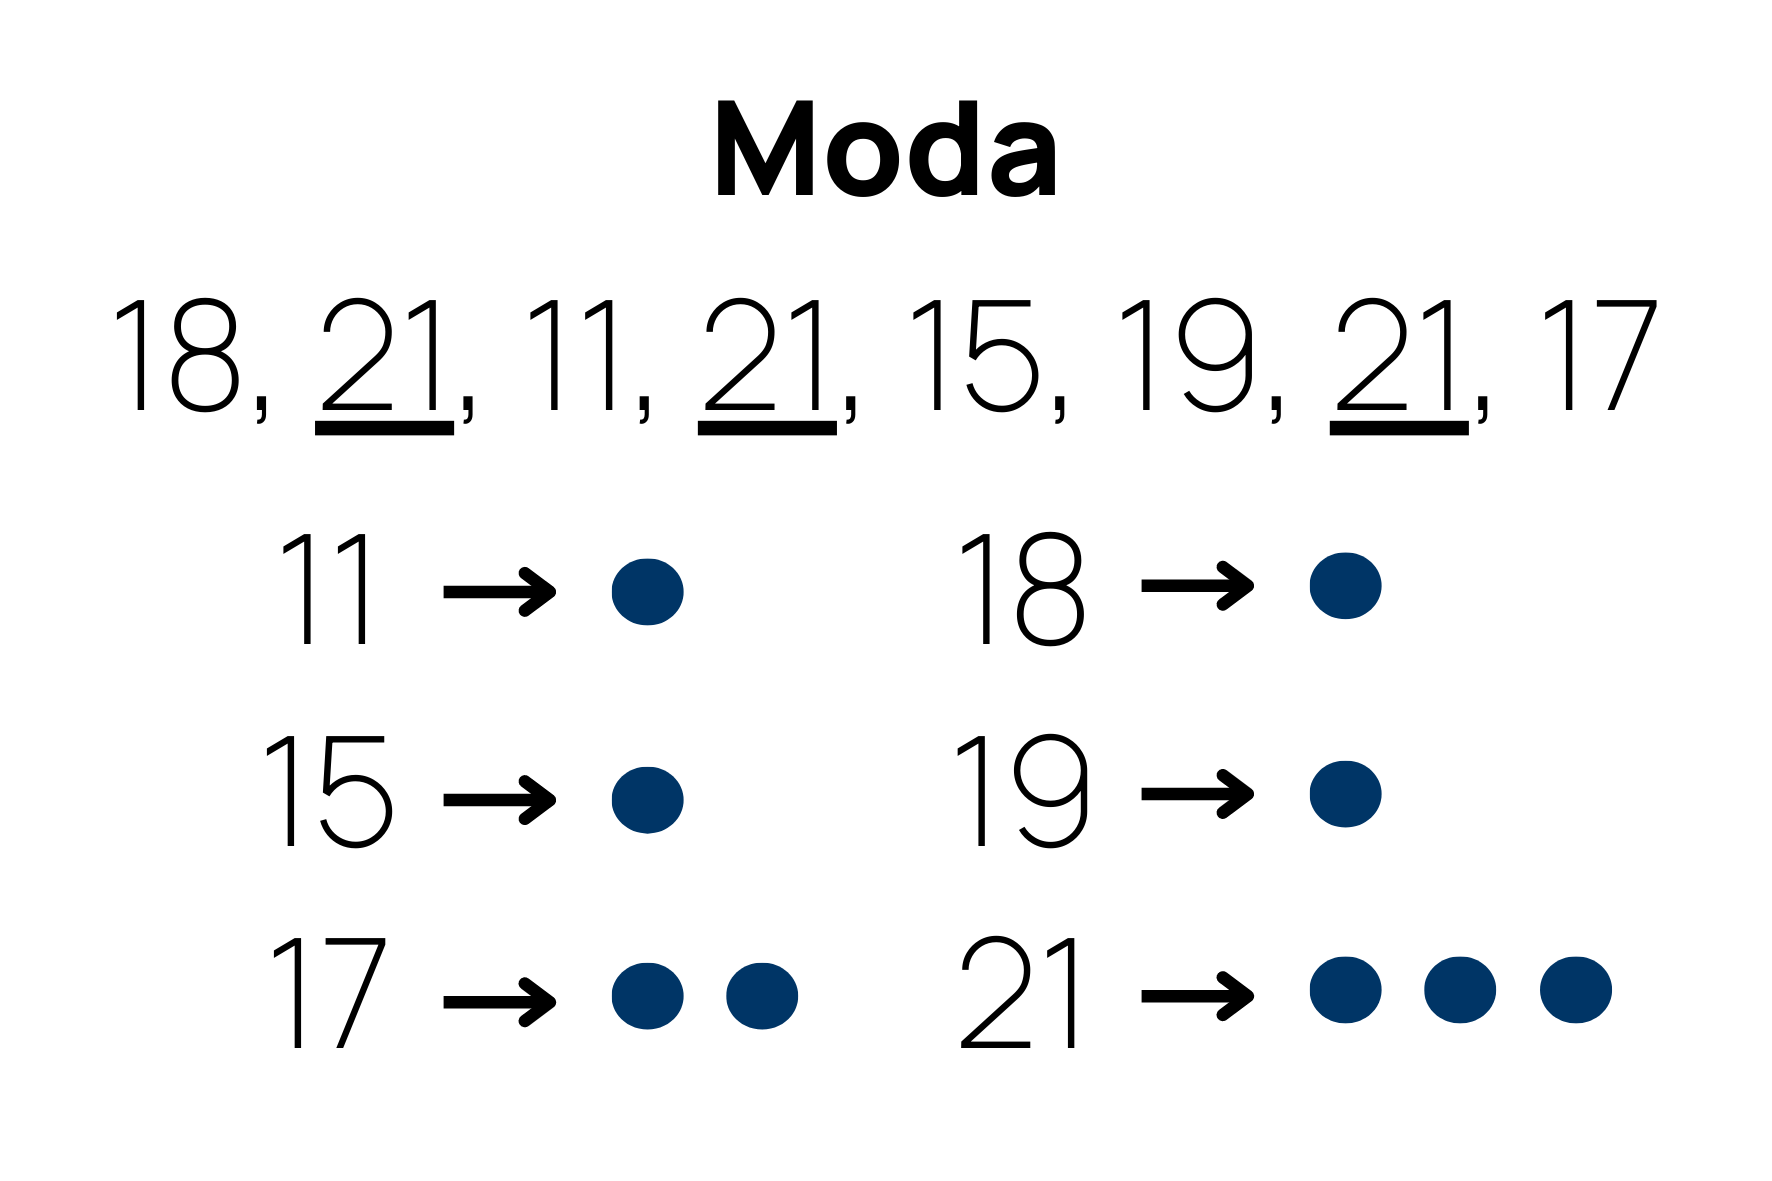
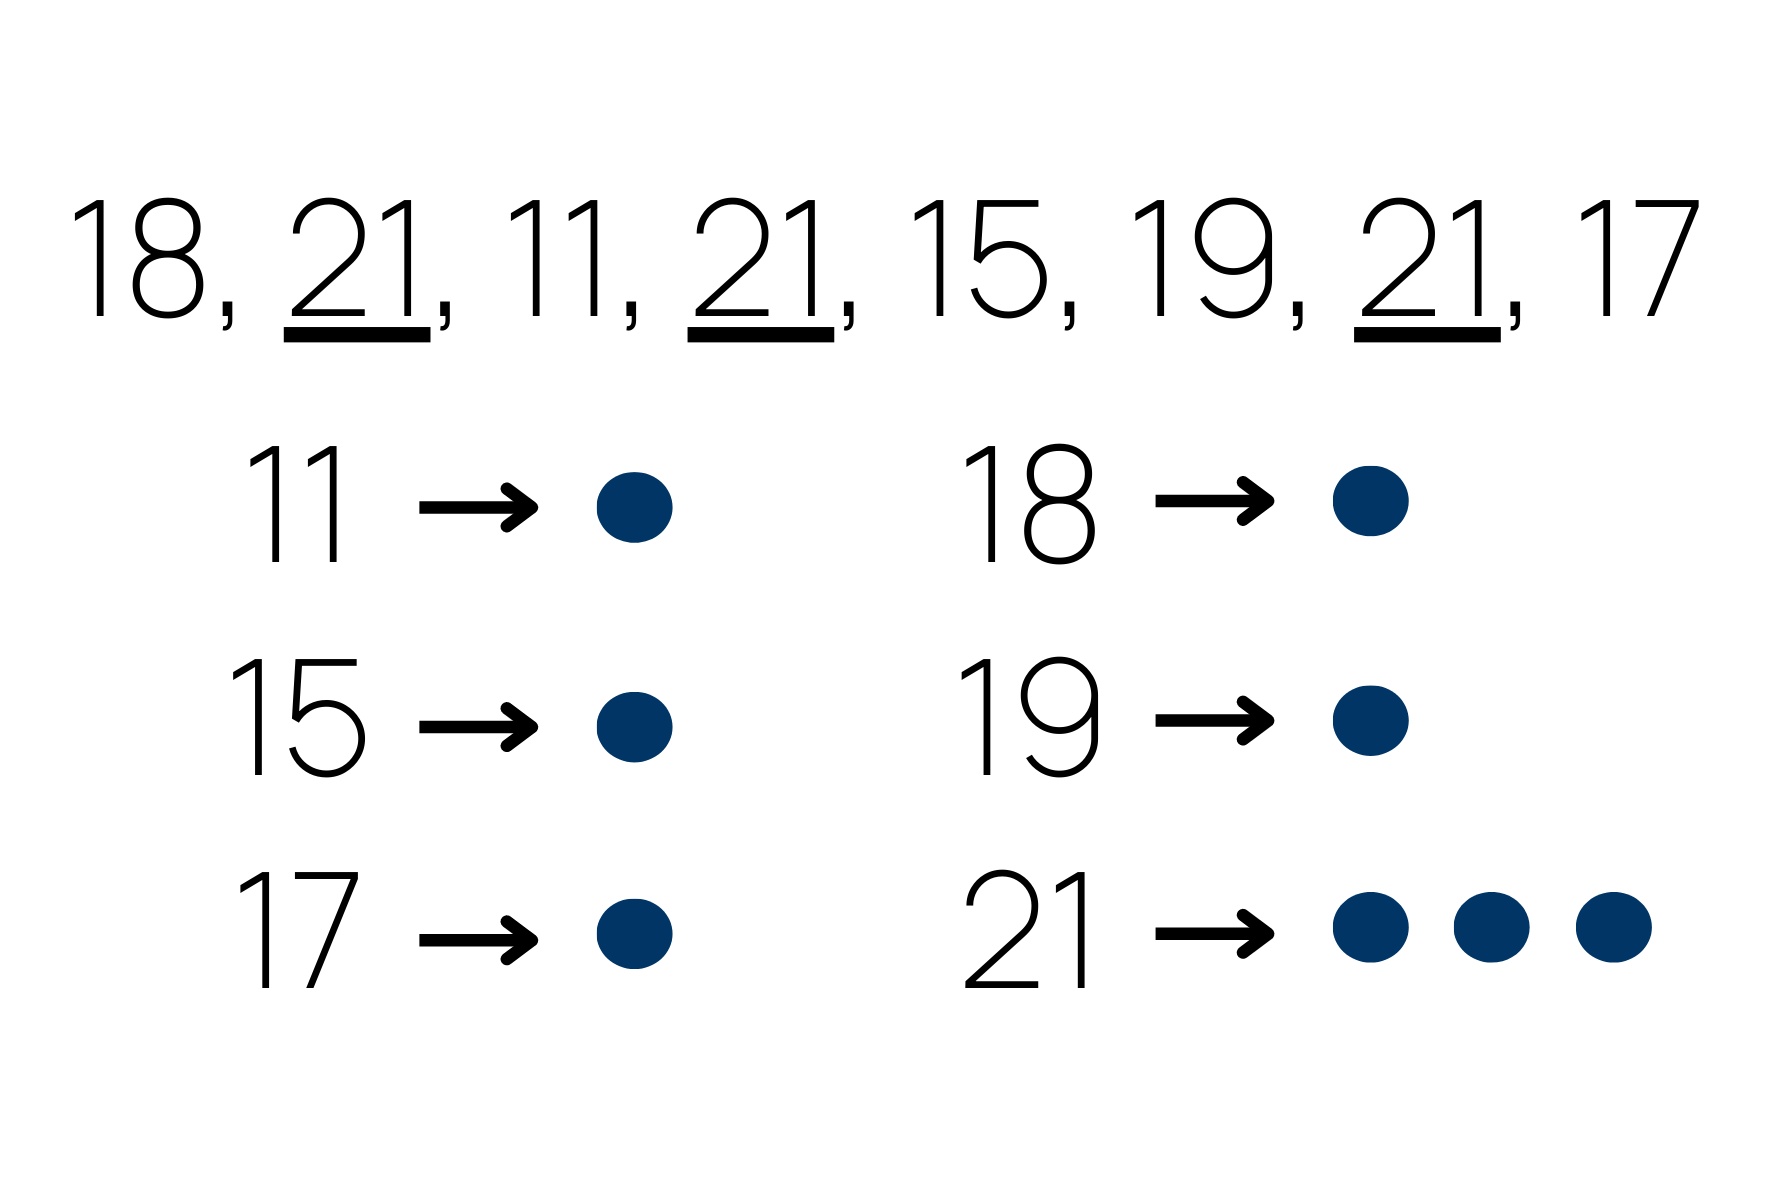
repostando arquivos

diff --git a/media.html b/media.html
@@ -21,22 +21,26 @@
     <main class="conteudo">
         <h1 class="conteudo-titulo">Média</h1>
 
-        <p class="conteudo-paragrafo">A média (Me) é uma medida estatística importante que representa o valor médio de um conjunto de números.
-            
-            Ela é calculada somando todos os valores e dividindo pelo número total de elementos. 
+        <p class="conteudo-paragrafo">A média (Me) é uma medida estatística importante que representa o valor médio de
+            um conjunto de números.
 
-            A média aritmética é frequentemente usada para resumir um conjunto de dados e fornecer uma ideia geral de seu valor central.
-            
-            Para calcular a média aritmética de um conjunto de números, você deve somar todos os valores e dividir pelo número total de elementos. Por exemplo, se tivermos os seguintes números: 5, 7, 10, 12 e 15, a média aritmética seria calculada da seguinte forma:
+            Ela é calculada somando todos os valores e dividindo pelo número total de elementos.
 
-           <br> (5 + 7 + 10 + 12 + 15) / 5 = 49 / 5 = 9,8
-           <br>
+            A média aritmética é frequentemente usada para resumir um conjunto de dados e fornecer uma ideia geral de
+            seu valor central.
+
+            Para calcular a média aritmética de um conjunto de números, você deve somar todos os valores e dividir pelo
+            número total de elementos. Por exemplo, se tivermos os seguintes números: 5, 7, 10, 12 e 15, a média
+            aritmética seria calculada da seguinte forma:
+
+            <br> (5 + 7 + 10 + 12 + 15) / 5 = 49 / 5 = 9,8
+            <br>
             Portanto, a média aritmética dos números fornecidos é 9,8.
         </p>
 
         <h1 class="conteudo-titulo">Fórmula</h1>
 
-        <img class="conteudo-imagem" src="assets/imagens/média.png" width="300px" height="100px"></a>
+        <img class="conteudo-imagem" src="assets/imagens/media2.png" width="350px" height="200px">
 
         <p class="conteudo-paragrafo">Sendo,
 
@@ -52,27 +56,30 @@
 
         <h1 class="conteudo-titulo">Solução</h1>
 
-        <img class="conteudo-imagem" src="assets/imagens/media2.png" width="350px" height="200px"></a>
+        <img class="conteudo-imagem" src="assets/imagens/media2.png"></a>
+        <section class="conteudo-calculadora">
+            <form class="conteudo-calculadora-form" method="post">
+                <label for="array-input" class="conteudo-paragrafo">Insira as notas de cada bimestre:</label>
+                <div><label class="conteudo-paragrafo">Nota 02</label>
+                    <input type="number" id="nota02" value="" max="10">
+                </div>
+                <div>
+                    <label class="conteudo-paragrafo">Nota 02</label>
+                    <input type="number" id="nota02" value="" max="10">
+                </div>
+                <div>
+                    <label class="conteudo-paragrafo">Nota 03</label>
+                    <input type="number" id="nota03" value="" max="10">
+                </div>
+                <div>
+                    <label class="conteudo-paragrafo">Nota 04</label>
+                    <input type="number" id="nota04" value="" max="10">
+                </div>
+                <input class="conteudo-botao" type="button" onclick="javascript:calculo();" name="name" value="Enviar">
+                <input type="text" id="txtResultado" value="">
+            </form>
+        </section>
 
-<section class="conteudo-calculadora">
-        <form class="conteudo-calculadora-form" method="post">
-            <label for="array-input" class="conteudo-paragrafo">Insira as notas de cada Bimestre:</label>
-            <div><label class="conteudo-paragrafo">Nota 01</label>
-            <input type="number" id="nota01" value="" max="10"></div>
-
-           <div><label  class="conteudo-paragrafo">Nota 02</label>
-            <input type="number" id="nota02" value="" max="10"></div>
-
-            <div><label  class="conteudo-paragrafo">Nota 03</label>
-            <input type="number" id="nota03" value="" max="10"></div>
-
-            <div><label  class="conteudo-paagrafo">Nota 04</label>
-            <input type="number" id="nota04" value="" max="10"></div>
-
-            <input type="button" onclick="javascript:calculo();" name="name" value="Enviar">
-            <input type="text" id="txtResultado" value="">
-        </form>
-</section>
         <h1 class="conteudo-titulo">Videoaula</h1>
         <div class="video-container">
             <iframe width="560" height="315" src="https://www.youtube.com/embed/nRxl0WUplf4"
@@ -94,7 +101,7 @@
             }
         </script>
 
-        <h1 class="conteudo-titulo">Agora vamos treinar o que aprendemos</h1><br></br>
+        <h1 class="conteudo-titulo">Agora vamos treinar o que aprendemos</h1>
         <a class="link-resolucoes" href="assets/resolucoes/media/q1_media.html">Resolução de
             questões</a>
     </main>

diff --git a/mediana.html b/mediana.html
@@ -60,7 +60,6 @@
 
         <img class="conteudo-imagem" src="assets/imagens/mediana.png" width="120px" height="60px">
 
-
         <h1 class="conteudo-titulo">Exemplo 2</h1>
 
         <p class="conteudo-paragrafo">Mediana com quantidade PAR de dados no ROL.</p>
@@ -75,7 +74,7 @@
         <p class="conteudo-paragrafo">Verificamos que a quantidade de dados é PAR. A mediana é a média aritmética dos
             valores centrais.</p>
 
-        <img class="conteudo-imagem" src="assets/imagens/mediana2.png"  width="320px" height="110px"></a>
+        <img class="conteudo-imagem" src="assets/imagens/mediana2.png" width="320px" height="110px"></a>
 
         <p class="conteudo-paragrafo">Portanto, a mediana das alturas dos jogadores é 1,98m.</p>
 
@@ -91,8 +90,10 @@
 
         <form class="conteudo-calculadora" method="post">
             <label for="array-input" class="conteudo-paragrafo">Insira os números separados por vírgula:</label>
-            <div><input type="text" id="inputValues"></div>
-            <div><button onclick="calcularMediana()">Calcular Mediana</button></div>
+            <input type="text" id="inputValues">
+            <button class="conteudo-botao" onclick="calcularMediana()">Calcular Mediana</button>
+        </form>
+
         </form>
 
         <script>function calcularMediana() {
@@ -121,4 +122,5 @@
 
     </main>
 </body>
+
 </html>

diff --git a/moda.html b/moda.html
@@ -53,8 +53,8 @@
       <h1 class="conteudo-titulo">Solução</h1>
       <p class="conteudo-paragrafo">Observando os números registrados notamos que o número 21 foi o que apresentou
          maior frequência (3 pares), portanto, a moda é igual a:
-         Mo = 21
       </p>
+      <p class="conteudo-paragrafo">Mo = 21</p>
 
       <img class="conteudo-imagem" src="assets/imagens/moda.png" width="400px" height="240px">
 
@@ -72,7 +72,8 @@
          <div><label for="array-input" class="conteudo-paragrafo">Insira os números:</label></div>
          <div><input type="text" id="array-input"></div>
 
-         <button onclick="encontrarMaisRepetido()">Encontrar valor mais repetido</button>
+
+         <button class="conteudo-botao" onclick="encontrarMaisRepetido()">Encontrar valor mais repetido</button>
 
          <p id="resultado"></p>
       </form>

diff --git a/assets/estilos/style.css b/assets/estilos/style.css
@@ -116,6 +116,19 @@ a {
     text-align: center;
 }
 
+.conteudo-botao {
+    font-family: var(---fonte-titulo);
+    background-color: var(---cor-terciaria);
+    color: #fff;
+    text-decoration: none;
+
+    border-radius: 10%;
+    padding: 0.8rem;
+    margin: 2rem 2rem;
+    font-size: 1.4rem;
+    text-align: center;
+}
+
 .rodape {
     font-family: var(---fonte-titulo);
     background-color: var(---cor-secundaria);
